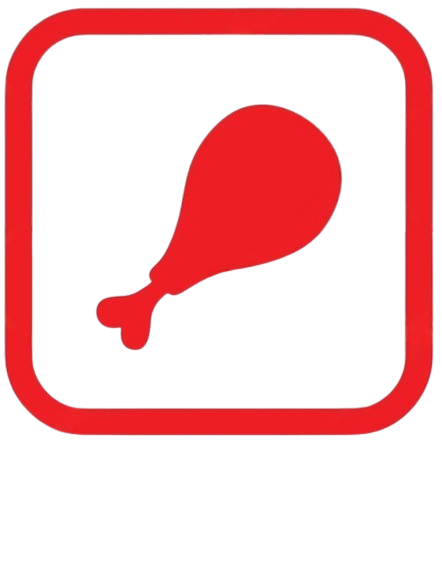
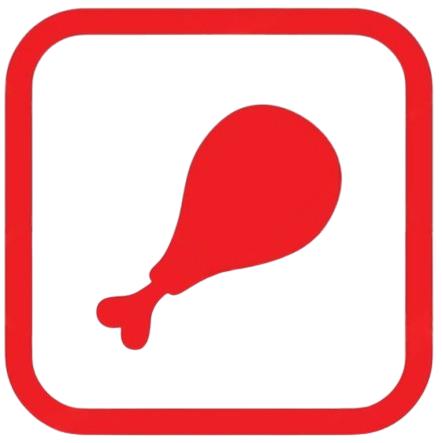
.........

Changed region(s): [[0.0, 0.1761, 1.0, 0.9977], [0.0, 0.0, 1.0, 0.2054]]

diff --git a/CanteenManage/Services/CartService.cs b/CanteenManage/Services/CartService.cs
@@ -353,13 +353,12 @@ namespace CanteenManage.Services
                     &&
                     fo.Food.FoodTypeId == (int)foodTypeEnum
                     )
-                    .Where(fo =>
-                    (fo.OrderDate.Date < DateTime.Now.Date) || (fo.OrderDate.Date == DateTime.Now.Date && fo.OrderDate.Hour >= houreValue)
-                    )
                     .Where(fo => fo.OutDateStatus == (int)CartFoodOutDateEnum.InOrder)
-
                     .ToListAsync(cancellationToken);
-            return foodOrderByUseridlist;
+
+            ///bcz 24 hour format can not check in sql linq we are again filtering in memory
+            var foodOrderByUseridlist_24Hr = foodOrderByUseridlist.Where(fo => fo.OrderDate.Date < DateTime.Now.Date || (fo.OrderDate.Date == DateTime.Now.Date && int.Parse(DateTime.Now.ToString("HH")) >= houreValue)).ToList();
+            return foodOrderByUseridlist_24Hr;
         }
         public async Task<bool> RemoveCartItem(SessionDataModel sessionData, int foodId, CancellationToken cancellationToken)
         {

diff --git a/CanteenManage/Controllers/CartController.cs b/CanteenManage/Controllers/CartController.cs
@@ -28,6 +28,11 @@ namespace CanteenManage.Controllers
             try
             {
                 SessionDataModel sessionDataModel = utilityServices.GetSessionDataModel(HttpContext.Session);
+                await cartService.CheckOutOfOrderInCart(
+                                                                foodTypeEnum: FoodTypeEnum.Breakfast,
+                                                                sessionData: sessionDataModel,
+                                                                cancellationToken: cancellationToken
+                                                                );
                 var breakfastCart = await cartService.getCartList((int)FoodTypeEnum.Breakfast,
                     sessionDataModel.UserIdOrZero,
                     cancellationToken

diff --git a/CanteenManage/Utility/CustomDataConstants.cs b/CanteenManage/Utility/CustomDataConstants.cs
@@ -3,7 +3,7 @@
     public class CustomDataConstants
     {
         public static int BreakfastTimeHour = 7;
-        public static int LunchTimeHour = 10;
+        public static int LunchTimeHour = 11;
         public static int SnacksTimeHour = 15;
 
         public static int BreakfastTimeHourEnd = 11;
